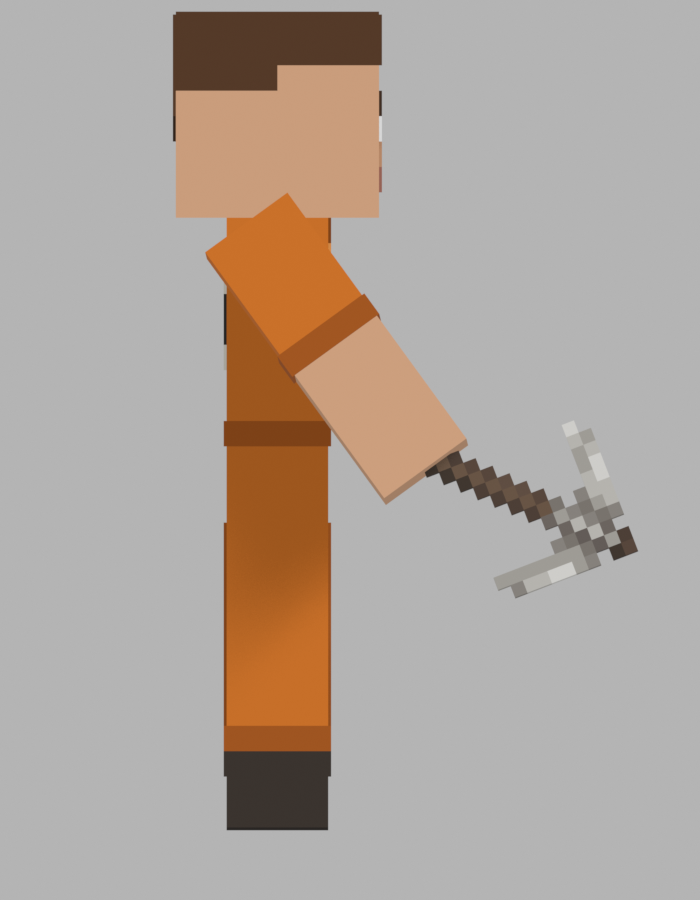
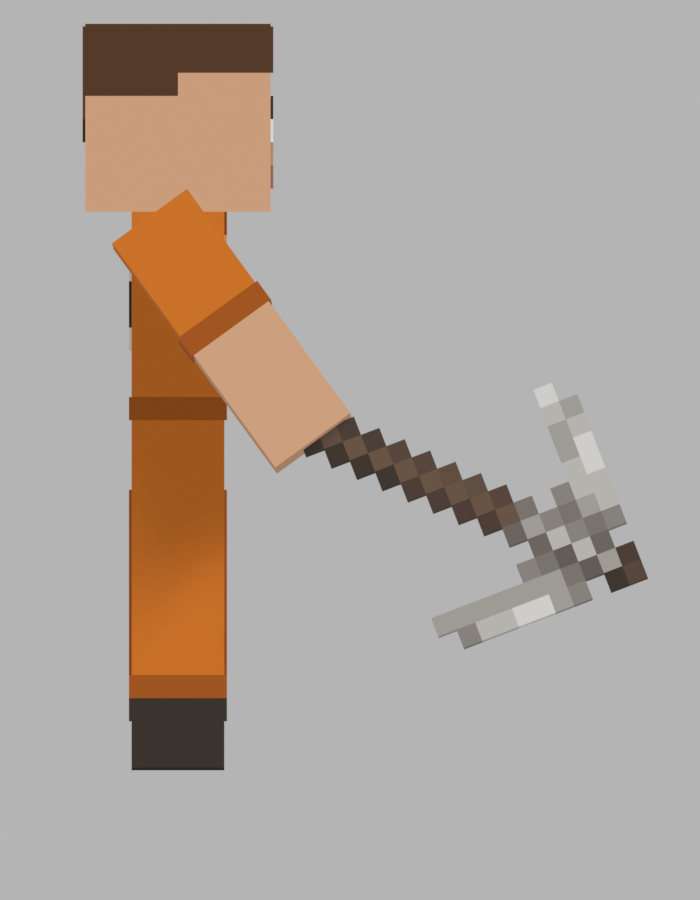
fix(hand): размеры предметов в руке как в Minecraft

diff --git a/assets/models/player/hold.py b/assets/models/player/hold.py
@@ -2,7 +2,7 @@
 # руках»]: the body posed with the game's own numbers — the hold pose (SwingAnimations.HOLD: shoulder 14° / 4°, elbow
 # 22°, which CharacterAnimator folds into the shoulder on the block body), the grip (HeldItem.luau render: the C0 of
 # tools and of blocks) and the item models (ItemModels.luau: the extruded sprites of Config/itemvoxels.json, a 1.2-stud
-# cube for blocks) — with Roblox's CFrame maths, so the picture is what the game shows.
+# cube for blocks; on the block body tools 2.38 studs, blocks 1.05 — Minecraft's held sizes) — with Roblox's CFrame maths, so the picture is what the game shows.
 # Run: "C:/Program Files/Blender Foundation/Blender 5.2/blender.exe" -b -P assets/models/player/hold.py
 #   → render-hold-<item>-{34,side}.png; [-- grip x y z pitch] tries another tool grip (studs, degrees).
 import json
@@ -93,6 +93,10 @@ def tool_grip(size, grip=None):
 
 
 BLOCK_GRIP = CF((0, -0.62, -0.25)) * angles(0, rad(25), 0)  # R15 avatars: (0.2, −0.5, −0.9)
+# held sizes [ваниль: third-person display scales — handheld tools 0.85 of a block, blocks 0.375; a block = 16 skin
+# pixels]: tool sprite 0.85 · 16 · PX ≈ 2.38 studs (was 1.45), block 0.375 · 16 · PX ≈ 1.05 (was 1.2)
+TOOL_SIZE = 0.85 * 16 * player.PX
+BLOCK_SIZE = 0.375 * 16 * player.PX
 
 
 def tool_boxes(voxels, size):
@@ -179,14 +183,18 @@ def render(grip=None, tag="", block=None):
         player.clear_meshes()
         add(body_boxes(body, colours, ["hair_short"], cf, centre))
         if kind == "tool":
-            root = hand * tool_grip(1.45, grip)
-            add([(root * f, s, c) for f, s, c in tool_boxes(voxels[item], 1.45)])
+            size = float(os.environ.get("TOOL_SIZE", TOOL_SIZE))
+            root = hand * tool_grip(size, grip)
+            add([(root * f, s, c) for f, s, c in tool_boxes(voxels[item], size)])
         else:
             bgrip = CF(block[:3]) * angles(0, rad(block[3]), 0) if block else BLOCK_GRIP
-            add([(hand * bgrip, [1.2, 1.2, 1.2], None)], os.path.join(ROOT, "assets", "textures", "blocks", item + ".png"))
-        target = Vector((-0.5, -0.5, 2.6))
-        for view, loc, ortho in (("34", (-9, -11, 5.4), 6.2), ("side", (-14, -0.5, 2.6), 6.2)):
-            look(cam, Vector(loc), target, ortho, None)
+            bs = float(os.environ.get("BLOCK_SIZE", BLOCK_SIZE))
+            bgrip = bgrip * CF((0, 0.6 - 0.025 - bs / 2, 0)) if not block else bgrip  # the block's top stays under the fist
+            add([(hand * bgrip, [bs, bs, bs], None)], os.path.join(ROOT, "assets", "textures", "blocks", item + ".png"))
+        # the side view looks along the arm: framed further forward so the bigger tools fit
+        for view, loc, target, ortho in (("34", (-9, -11, 5.4), (-0.5, -0.5, 2.6), 6.2),
+                                         ("side", (-14, -1.3, 2.4), (-0.5, -1.3, 2.4), 6.8)):
+            look(cam, Vector(loc), Vector(target), ortho, None)
             scene.render.filepath = os.path.join(HERE, "render-hold-%s%s-%s.png" % (item, "-" + tag if tag else "", view))
             bpy.ops.render.render(write_still=True)
 

diff --git a/docs/research/floors-evening-checklist.md b/docs/research/floors-evening-checklist.md
@@ -238,7 +238,7 @@
 
 - Зайти в Play: вместо аватара Roblox — блочное тело в оранжевой форме; в выводе нет ошибок `AvatarService`. Персонаж стоит ногами на земле (HipHeight 2,1), не проваливается и не висит; ходьба, прыжок, лестницы, вода, паутина работают; голова не цепляет потолки в шахтах.
 - Анимации Roblox (стойка, ходьба, прыжок) играют; руки и ноги не гнутся в локтях и коленях (`CharacterAnimator`, атрибут `BlockBody`). Удар мечом/киркой: рука поворачивается целиком в плече, предмет направлен как раньше.
-- Предмет в руке — как на `assets/models/player/hold-sheet.png`: рукоять выходит из кулака, блок висит под кулаком, топор держится за рукоять лезвием вперёд (и от первого лица). Если не так — смещения блочного тела в `HeldItem.render` (`block`), превью `hold.py -- grip x y z pitch tag` / `-- block x y z yaw tag`. Рука от первого лица — цвета кожи.
+- Предмет в руке — как на `assets/models/player/hold-sheet.png`: рукоять выходит из кулака, блок висит под кулаком, топор держится за рукоять лезвием вперёд (и от первого лица). Размеры как в Minecraft: инструмент ≈ 2,4 стада (почти до колена при опущенной руке), блок ≈ 1 стад, еда ≈ 1,5. Если не так — смещения блочного тела в `HeldItem.render` (`block`), превью `hold.py -- grip x y z pitch tag` / `-- block x y z yaw tag`. Рука от первого лица — цвета кожи.
 - Два игрока (Test → 2 Players): разные лица/причёски; у вступившего во фракцию — повязка её цвета на левом плече, после выхода исчезает. Ник над головой не залезает в голову (`NameplateService`, StudsOffset 2,6).
 - Броня: сначала загрузить 148 граней `assets/armor/block/*.png` и 44 маски блеска `assets/armor/block/glint/*.png` (`upload_image`, сервер PNG на 127.0.0.1) → `assets/armor/block/ids.json` {"faces": {имя файла без .png: id}, "glints": {имя маски: id}} → `node scripts/build-configs.mjs` → синк Config. Зачарованная броня (уровень с чарами): фиолетовые полосы только на броне, не на лице и не в дырах кольчуги, переливание бежит сверху вниз. Выдать в Creative по комплекту кожи, кольчуги, железа, алмаза (уровни 1–16) — сидит как на `assets/models/armor/armor-sheet.png`; грани не перевёрнуты (верх шлема и нагрудника — если перевёрнуты, развернуть картинки top/bottom в `armor.py`), сквозь броню не торчат волосы и форма, поножи под нагрудником и ботинками не мерцают; сквозь кольчугу видна форма; зачарованная светится. От первого лица тело и броня скрываются.
 - Если тело не появилось у того, кто зашёл раньше старта сервера, — `AvatarService` перезагружает персонажа (`LoadCharacter`).

diff --git a/docs/PROGRESS.md b/docs/PROGRESS.md
@@ -51,6 +51,10 @@
 
 ## Журнал
 
+- **2026-10-26 (Claude) — Предметы в руке блочного тела в размерах Minecraft (без Studio).**
+  - [владелец: «Такое ощущение, как будто инструменты в руках маленькие, чекай как в Майне»] В Minecraft от третьего лица [ваниль] инструмент = 0,85 блока, блок = 0,375, прочие предметы = 0,55; блок = 16 пикселей скина = 2,8 стада нашего тела. Было 1,45 / 1,2 / 1,2, стало 2,38 / 1,05 / 1,54.
+  - `HeldItem.render`: для `BlockBody` масштаб уходит в `MakeVisual` (модель, след удара, хват лука растут вместе), верх блока остаётся под кулаком. R15-аватары (NPC) и рука от первого лица без изменений.
+  - `hold.py` рисует в тех же размерах, вид сбоку раздвинут; `assets/models/player/hold-sheet.png` обновлён. Проверить в Studio по чек-листу.
 - **2026-10-26 (Claude) — Предметы в руке блочного тела: хват поправлен, топор больше не держится за голову (без Studio).**
   - [владелец: «а теперь мне интересно как держатся инструменты и блоки в руках»] `assets/models/player/hold.py` (Blender) ставит тело в позу держания (SwingAnimations.HOLD, локоть сложен в плечо) и вешает предмет с хватом из `HeldItem` и моделями `ItemModels` — математикой CFrame Roblox; `hold-sheet.png`.
   - Кисть блочного тела 0,7 × 0,35 × 0,7 (у R15 ≈ 0,3): с прежними смещениями предмет висел снаружи под кистью. Для `BlockBody` в `HeldItem.render`: инструмент — конец рукояти внутри кулака (0, 0,1, 0,05; наклон −105° прежний, выбран владельцем 22.10), блок — под кулаком (0, −0,62, −0,25, поворот 25°). R15-манекены — прежние смещения.
